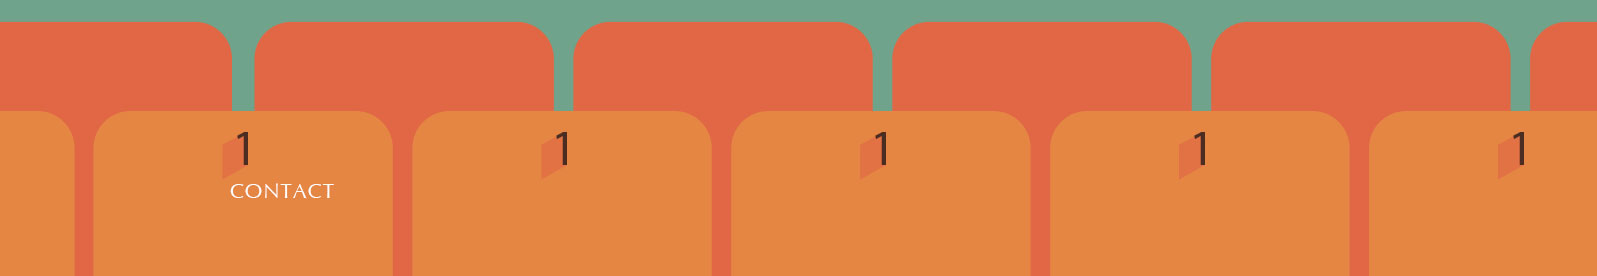
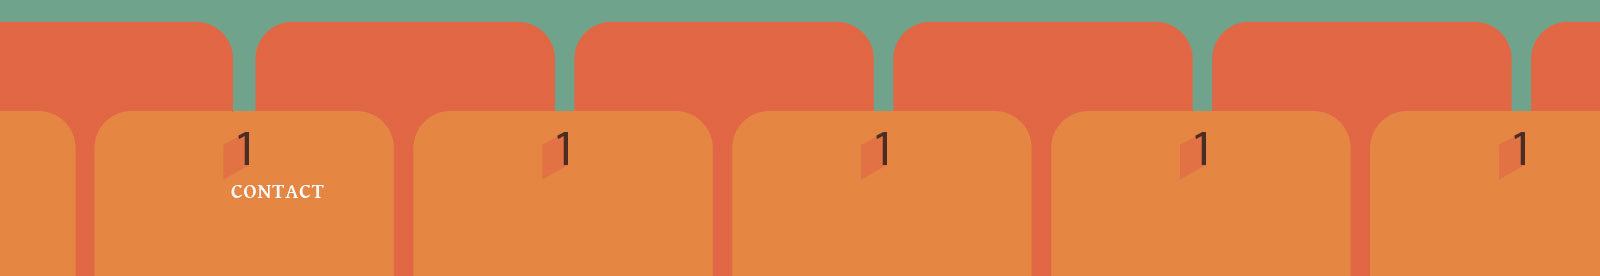
fin de la page contact
Il manque les changements dans le footer. Mais la page est finie dans
les grandes lignes.

diff --git a/contact.html b/contact.html
@@ -10,7 +10,7 @@
 
 	<div id="header">
 		<div class="logo">
-			<a href="https://www.reddit.com/">
+			<a href="index.html">
 				<img src="images/théâtre.jpg" />
 			</a>
 		</div>
@@ -36,7 +36,7 @@
 		<div class="clearfix"></div>
 	
 	</div>
-	<div class="banniere"><img src="images/ban.jpg"></div>
+	<div class="banniere"><div class="acc"><a href="index.html">ACCUEIL</a></div><img src="images/ban.jpg"></div>
 
 
 	<div id="container">
@@ -49,9 +49,9 @@
 					<form method="post" action="traitement.php">
 
 						<p>
-							<label for="nom">Votre nom</label>
+							<label for="nom">Votre nom*</label>
 							<br/>
-							<input type="text" name="nom" id="nom" autofocus  placeholder="Dupont" />
+							<input type="text" name="nom" id="nom" autofocus  placeholder="Dupont" required />
 						</p>
 						<p>
 							<label for="prenom">Votre prenom</label>
@@ -70,14 +70,14 @@
 						</p>
 						<label for="message">Votre message</label>
 						<p><textarea rows="10" cols="50" id="message">Nous contacter</textarea></p>
-						<input type="submit" value="Envoyer" name="bouton"/>
+						<input type="submit" value="Envoyer" name="bouton" id="envoie" />
 
 					</fieldset>
 				</form>
 			</div>
 
 			<div class="map">
-				<iframe src="https://www.google.com/maps/embed?pb=!1m18!1m12!1m3!1d83085.8994010073!2d2.784817347247636!3d49.40069106214571!2m3!1f0!2f0!3f0!3m2!1i1024!2i768!4f13.1!3m3!1m2!1s0x47e7d5e621cbedd7%3A0x40af13e81644610!2s60200+Compi%C3%A8gne!5e0!3m2!1sen!2sfr!4v1462261577435" width="600" height="450" frameborder="0" style="border:0" allowfullscreen></iframe>
+				<iframe src="https://www.google.com/maps/embed?pb=!1m18!1m12!1m3!1d83085.8994010073!2d2.784817347247636!3d49.40069106214571!2m3!1f0!2f0!3f0!3m2!1i1024!2i768!4f13.1!3m3!1m2!1s0x47e7d5e621cbedd7%3A0x40af13e81644610!2s60200+Compi%C3%A8gne!5e0!3m2!1sen!2sfr!4v1462261577435" width="600" height="535" frameborder="0" style="border:0" allowfullscreen></iframe>
 				
 			</div>
 			<div class="clearfix"></div>

diff --git a/css/style.css b/css/style.css
@@ -534,6 +534,7 @@ fieldset
 	border: none;
 	padding: 20px;
 	margin-bottom: 80px;
+	margin-left: 50px;
 }
 
 #formulaire p
@@ -545,11 +546,47 @@ fieldset
 .map
 {
 	float: right;
+	margin-right:50px;
 }
 
 .banniere
 {
 	padding-top: 100px;
 	height: 275px;
+	position: relative;
 }
 
+.acc
+{
+	position: absolute;
+	left: 125px;
+	bottom: 75px;
+	font-size: 19px;
+	color: white;
+	font-weight: lighter;
+	border-right: 1px solid white;
+	padding-right: 14px;
+	padding-bottom: 8px;
+	font-family: arial;
+
+}
+.acc a
+{
+	text-decoration: none;
+	color: white;
+}
+#envoie
+{
+	background: #BC292D;
+	color: white;
+	border: none;
+	transition: 0.5s;
+	padding: 5px;
+}
+
+#envoie:hover
+{
+	background: #1A85A4;
+	color: #ff9900;
+	transition: 0.5s;
+}
